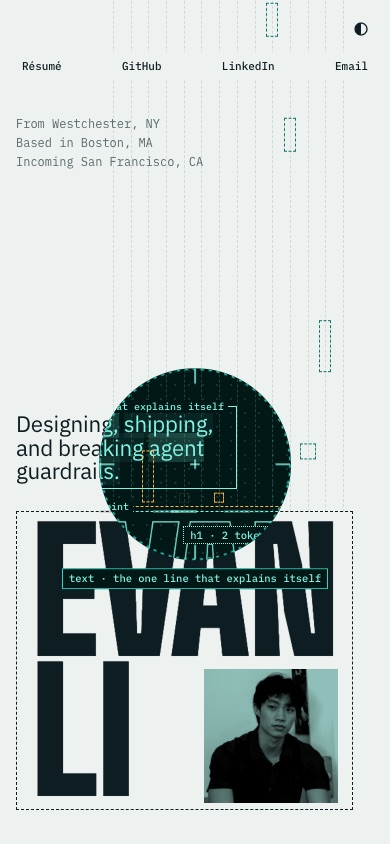
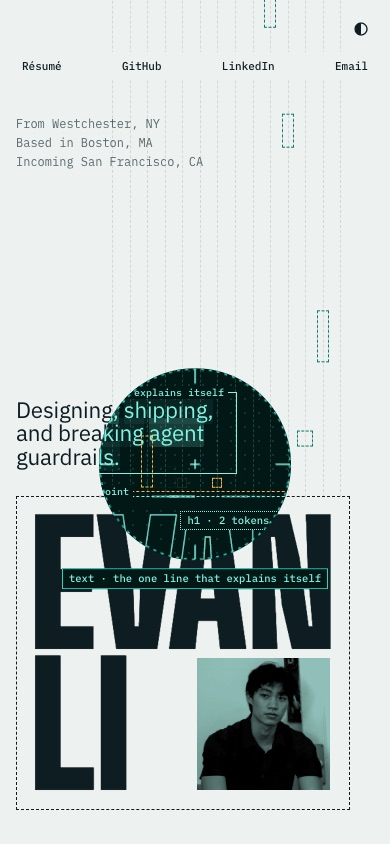
Even out spacing inside the name's box
Padding is measured from the ink, so every side has the same margin at
any viewport; the photo matches LI's cap height and EVAN's right edge.

diff --git a/src/index.css b/src/index.css
@@ -114,10 +114,12 @@ a:hover { color: var(--acc); }
   grid-area: 2 / 1 / 4 / 2;
   align-self: end;
   position: relative;
-  padding: clamp(10px, 1.6vw, 22px) clamp(14px, 2vw, 28px) clamp(6px, 1vw, 14px);
+  /* One margin, measured from the ink: each side subtracts the letters' own bearing. */
+  --name: min(39vh, 30vw);
+  --m: calc(var(--name) * 0.115);
+  padding: calc(var(--m) - var(--name) * 0.006) calc(var(--m) - var(--name) * 0.034) calc(var(--m) - var(--name) * 0.043) calc(var(--m) - var(--name) * 0.046);
   border: 1.5px dashed var(--ink);
 }
-.fence { --name: min(39vh, 30vw); }
 .hero h1 {
   margin: 0;
   font: 900 var(--name) / 0.84 var(--display);
@@ -197,10 +199,10 @@ a:hover { color: var(--acc); }
 .index button[aria-selected='true']::before { content: ''; align-self: center; width: 14px; height: 4px; margin-right: 8px; background: var(--acc); }
 .portrait-wrap {
   position: absolute;
-  right: clamp(14px, 2vw, 28px);
-  bottom: clamp(6px, 1vw, 14px);
+  right: var(--m);
+  bottom: var(--m);
   z-index: 1;
-  height: calc(var(--name) * 0.8);
+  height: calc(var(--name) * 0.79); /* cap height of LI */
   aspect-ratio: 1;
   background: var(--duo);
 }

diff --git a/BRIEF.md b/BRIEF.md
@@ -79,3 +79,4 @@ Diagrams are hand-built inline SVG with `role="img"`, `<title>`, `<desc>`. Flat,
 - 2026-10-27: Light palette cooled and quieted (#edf1f0 ground, finer grain, corner buttons without boxes). The lens always opens onto the dark agent layer, in both themes.
 - 2026-10-27: The photo sits inside the name's boundary, beside "LI", as a muted teal duotone (multiply over a desaturated teal). Inside the lens it turns into a halftone.
 - 2026-10-27: The URL no longer changes when you switch sections; `/#coursework`-style links still open that section.
+- 2026-10-27: The name's box uses one margin on every side, measured from the ink (each side's padding subtracts the typeface's own bearing). The photo matches LI's cap height and lines up with EVAN's right edge.
